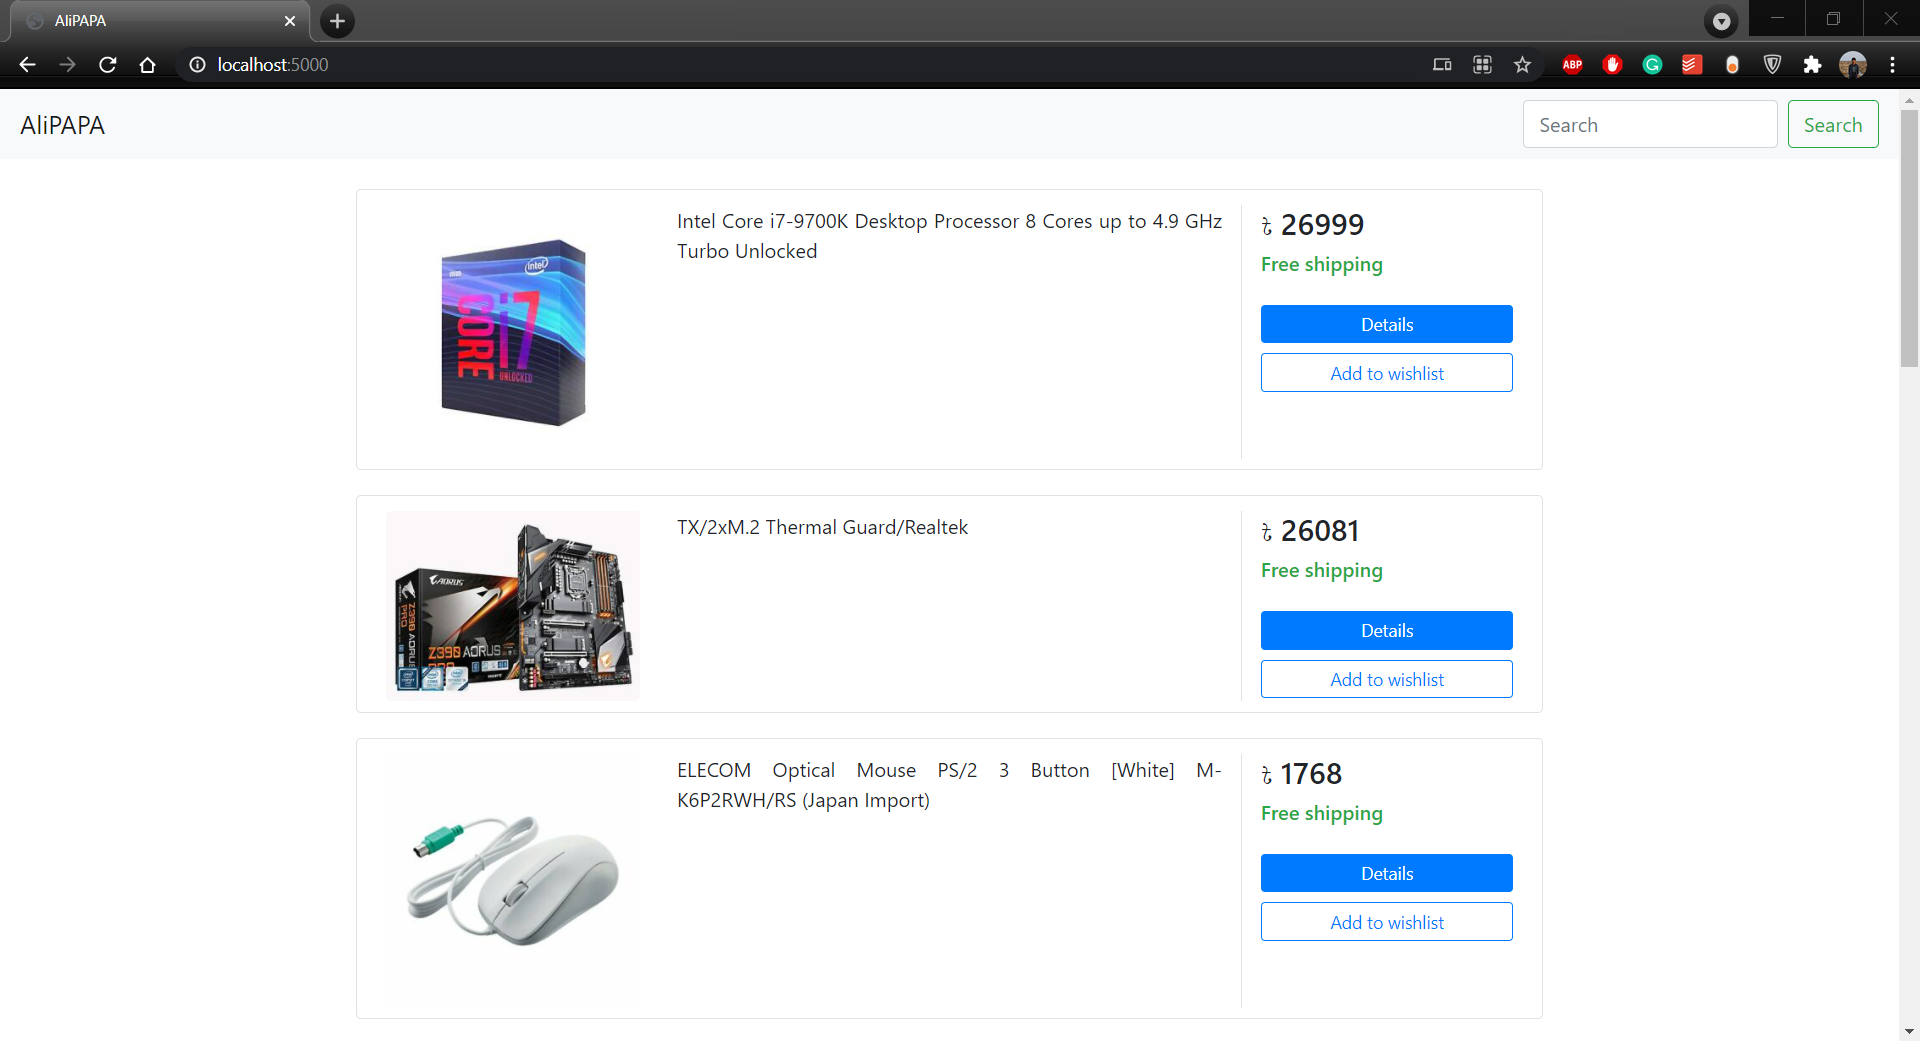
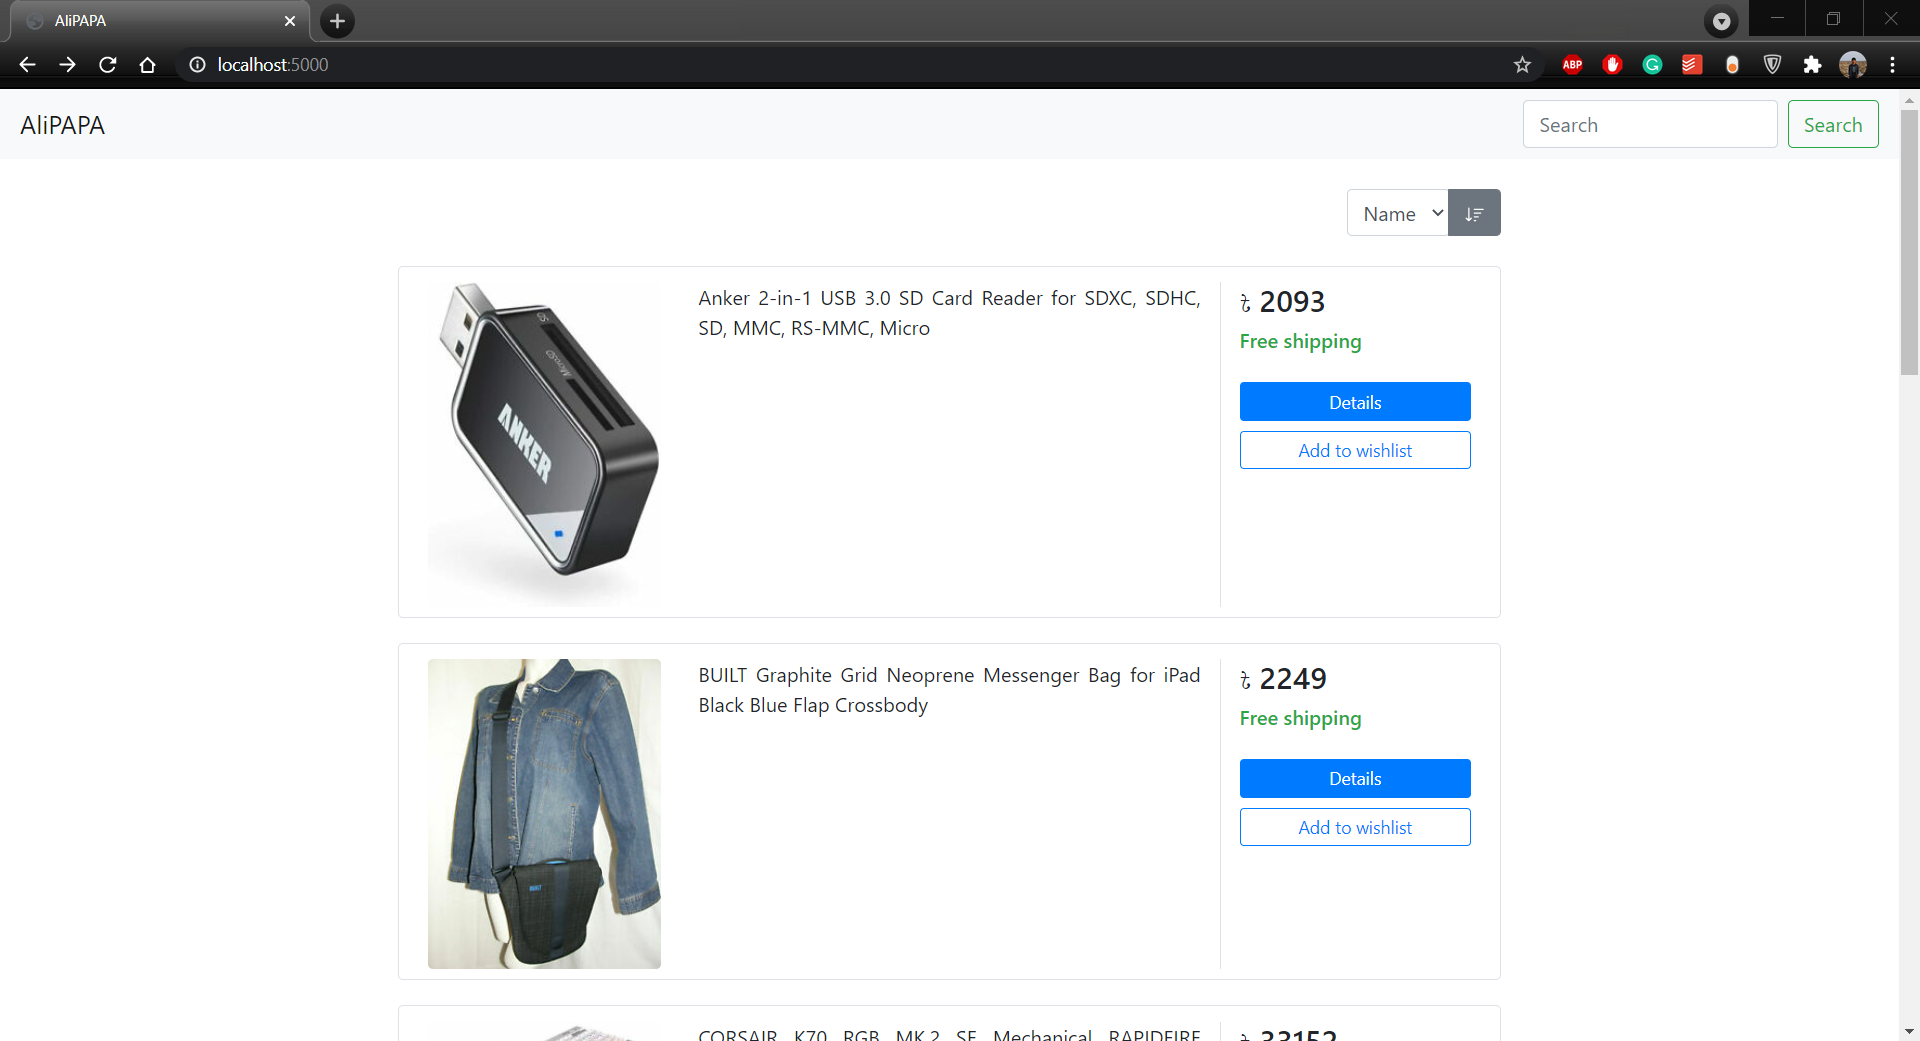
sort added with ajax request for filtering

diff --git a/public/js/custom.js b/public/js/custom.js
@@ -1,0 +1,79 @@
+$(document).ready(function () {
+    const ascButton = $('#asc');
+    const descButton = $('#desc');
+    const sortSelect = $("#sortType");
+    const searchForm = $("#search");
+    const serachField = $('#searchField');
+    const searchButton = $('#searchButton');
+    const productContainer = $('.productContainer');
+    const productTemplate = $('#productTemplate').show().clone();
+    $('#productTemplate').remove();
+
+    function setInputStuffs(value) {
+        value = !value;
+        ascButton.prop('disabled', value);
+        descButton.prop('disabled', value);
+        sortSelect.prop('disabled', value);
+        searchButton.prop('disabled', value);
+        serachField.prop('disabled', value);
+    }
+
+    let currentOrder = 'dsc';
+
+    addProducts(products);
+
+    searchForm.submit(function (e) {
+        e.preventDefault();
+        setInputStuffs(false);
+        filter();
+    });
+
+    ascButton.hide();
+
+    descButton.click(() => {
+        descButton.hide();
+        ascButton.show();
+        currentOrder = 'desc';
+        setInputStuffs(false);
+        filter();
+    });
+    ascButton.click(() => {
+        ascButton.hide();
+        descButton.show();
+        currentOrder = 'asc';
+        setInputStuffs(false);
+        filter();
+    })
+
+    sortSelect.change(function (e) {
+        setInputStuffs(false);
+        filter();
+    });
+
+
+
+    function filter() {
+        let params = `search/?search=${serachField.val()}&sort=${sortSelect.val()}&order=${currentOrder}`;
+        const newLocation = window.location.href + params;
+        jQuery.get(params, function (data) {
+            // productContainer.empty();
+            productContainer.children().not(':first-child').not(':nth-child(2)').remove();
+            addProducts(data);
+            setInputStuffs(true);
+            // console.log(data);
+        });
+    }
+
+    function addProducts(products) {
+        console.log(products);
+        products.forEach(product => {
+            let newProduct = productTemplate.clone();
+            newProduct.find('.productImageLink').attr('href', product.link);
+            newProduct.find('.productImageLink img').attr('src', product.image);
+            newProduct.find('.productName').text(product.name);
+            newProduct.find('.productPrice').append(product.price);
+            productContainer.append(newProduct);
+        });
+    }
+
+});

diff --git a/index.js b/index.js
@@ -6,6 +6,7 @@ var fs = require('fs');
 
 const app = express();
 app.set('view engine', 'ejs');
+app.use(express.static('public'))
 const PORT = process.env.PORT || 5000;
 app.listen(PORT)
 
@@ -24,12 +25,19 @@ dbObj.connectLocal("localhost", 3306, "root", "");
 
 
 app.get('/', (req, res) => {
-    getHome(req, res);
+    getHome(req, res, false);
+});
+
+app.get('/search', (req, res) => {
+    getHome(req, res, true);
 });
 
 
-async function getHome(req, res) {
-    const filter = req.query.name;
+async function getHome(req, res, shouldFilter) {
+    console.log(req.query);
+    const search = req.query.search;
+    const sort = req.query.sort;
+    const order = req.query.order;
 
     // rows = JSON.parse(fs.readFileSync('products.txt', { encoding: 'utf8', flag: 'r' }));
 
@@ -41,12 +49,28 @@ async function getHome(req, res) {
         console.log(i + 1, 'done');
     }
 
-    if (filter != undefined) {
-        const regex = new RegExp(filter, 'i');
+    if (search != '') {
+        const regex = new RegExp(search, 'i');
         rows = rows.filter(value => regex.test(value.name));
     }
+    switch (sort) {
+        case 'name':
+            rows = rows.sort(compareName);
+            break;
 
-    res.render('demo', { products: rows });
+        case 'price':
+            rows = rows.sort(comparePrice);
+            break;
+        default:
+            rows = rows.sort(compareName);
+    }
+    if (order == 'desc')
+        rows = rows.reverse();
+
+    if (!shouldFilter)
+        res.render('demo', { products: rows });
+    else
+        res.send(rows);
 }
 
 function getHTML(url) {
@@ -78,4 +102,30 @@ function scrapeEbay(product, html) {
     } catch (error) {
         product.price = 'Not Available';
     }
+}
+
+
+function compareName(a, b) {
+    let nameA = a.name.toUpperCase();
+    let nameB = b.name.toUpperCase();
+    if (nameA < nameB) {
+        return -1;
+    }
+    if (nameA > nameB) {
+        return 1;
+    }
+    return 0;
+}
+
+
+function comparePrice(a, b) {
+    let priceA = a.price;
+    let priceB = b.price;
+    if (priceA < priceB) {
+        return -1;
+    }
+    if (priceA > priceB) {
+        return 1;
+    }
+    return 0;
 }
